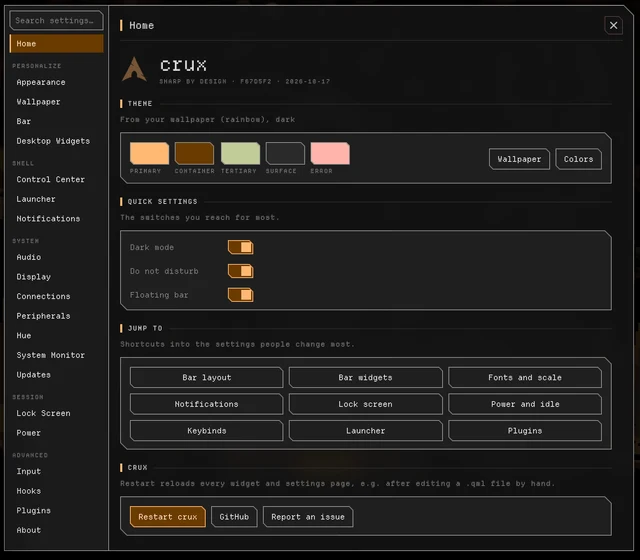
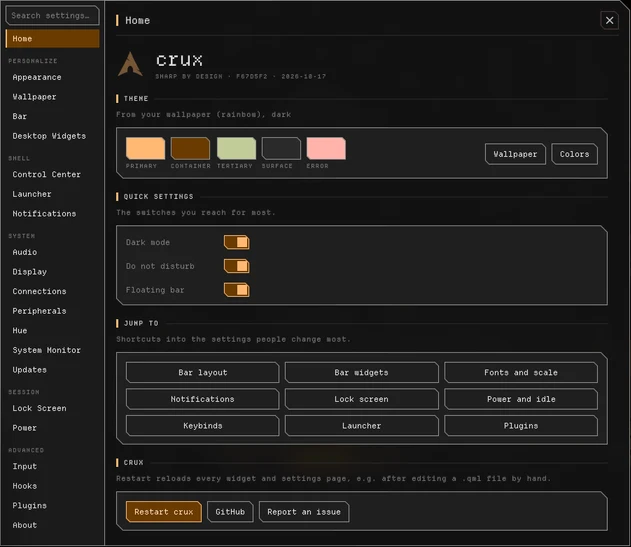
crop the settings shot to the panel's own edge

Changed region(s): [[0.0, 0.0, 1.0, 1.0], [0.4517, 0.1243, 0.5119, 0.1554]]

diff --git a/site/index.html b/site/index.html
@@ -58,7 +58,7 @@
       </figure>
 
       <figure class="tile reveal">
-        <div class="bare"><img src="settings.webp" width="640" height="560" loading="lazy" alt="the settings panel home page: theme swatches, quick toggles, and shortcut buttons into other settings pages"></div>
+        <div class="bare"><img src="settings.webp" width="631" height="547" loading="lazy" alt="the settings panel home page: theme swatches, quick toggles, and shortcut buttons into other settings pages"></div>
         <figcaption><b>Settings panel</b> Every option in one place, with search.</figcaption>
       </figure>
 
